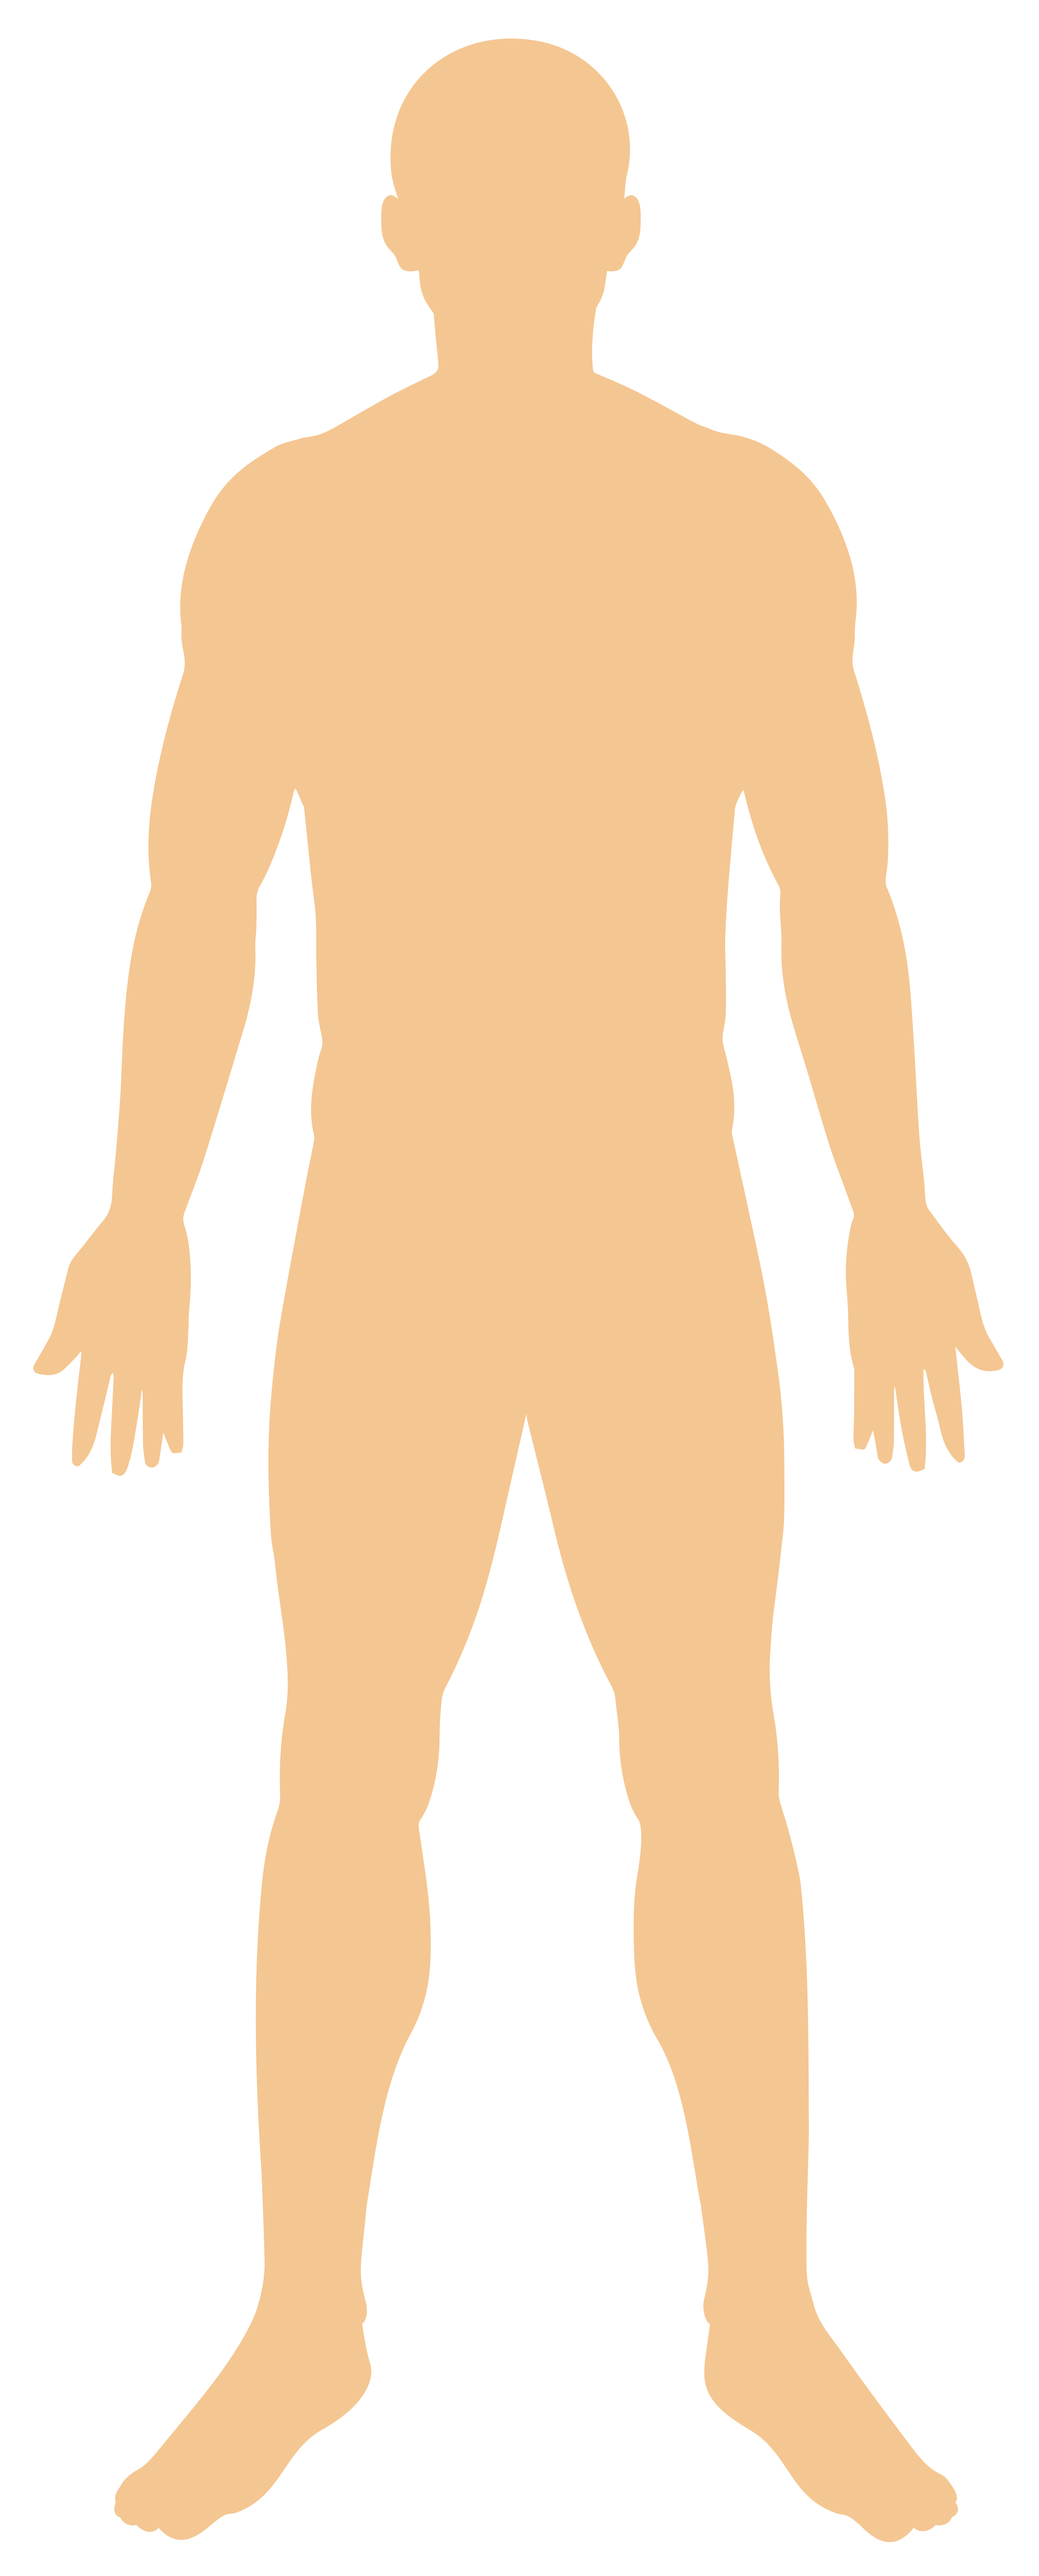
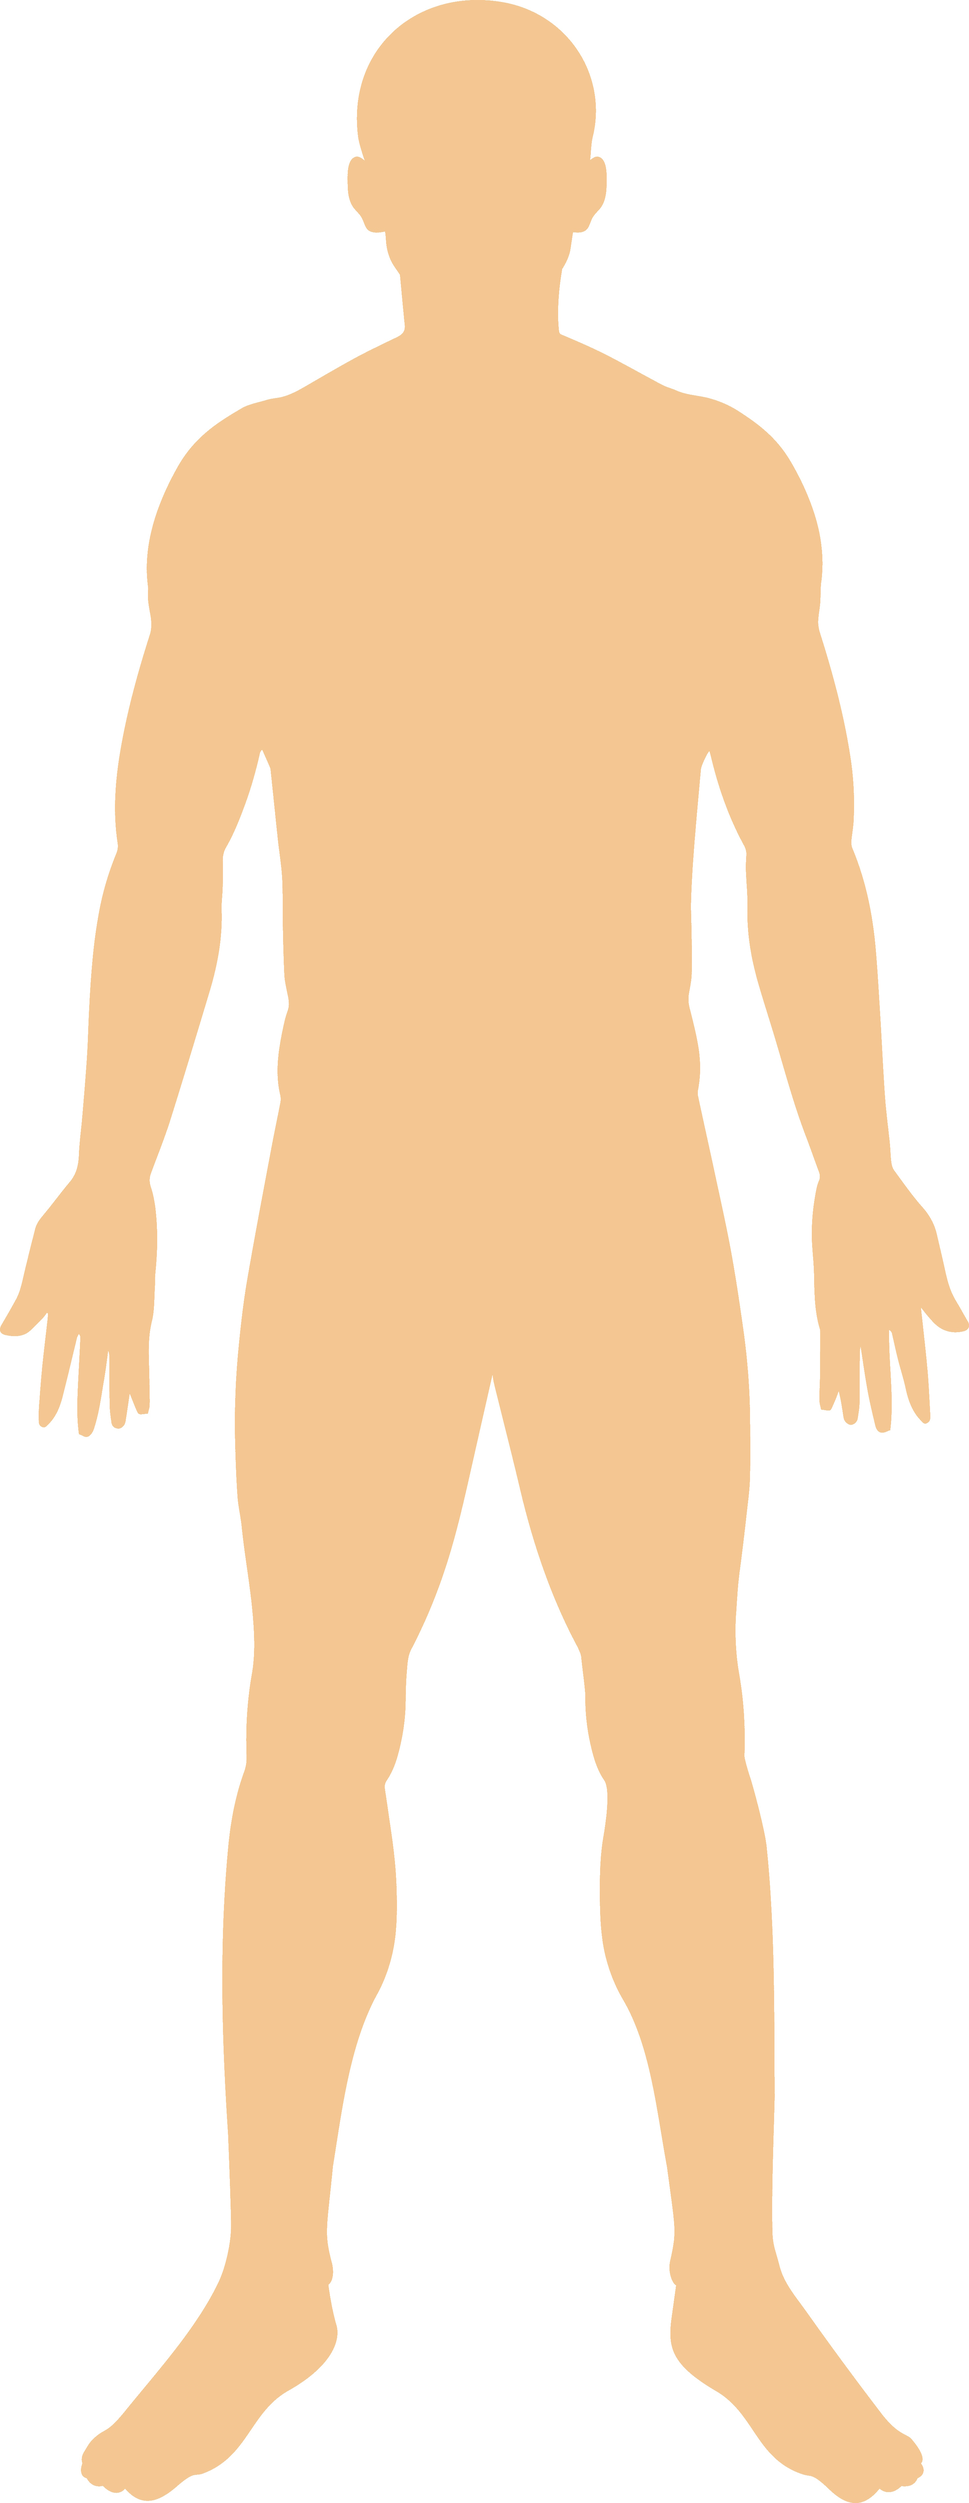
Some bug fixes and improvements

diff --git a/setup_body.py b/setup_body.py
@@ -9,16 +9,18 @@ joints_points = {"Left_arm" : (0.342, 0.412),
                  "Head": [[0.228, 0.849], [0.771, 0.849]],
                  'Legs': [[0.274, 0.478], [0.713, 0.478]]}
 
-def limit_and_scale(value):
-    clamped = max(-1.0, min(1.0, value))
+def redistortion(distortion):
+    '''Перерасчет искажения для подгонки изображения'''
+    clamped = max(-1.0, min(1.0, distortion))
     if clamped > 0.5:
-        return 1
+        return 0.99
     elif clamped < -0.5:
-        return -1
+        return -0.99
     else:
         return clamped * 2
 
 class Body:
+    '''Создание тела'''
     def __init__(self, type, distortion ):
 
         self.name = types[type]
@@ -27,9 +29,9 @@ class Body:
         self.x = self.img.width
         self.y = self.img.height
         if isinstance(distortion,tuple):
-            self.distortion = (limit_and_scale(distortion[0]),limit_and_scale(distortion[1]))    
+            self.distortion = (redistortion(distortion[0]),redistortion(distortion[1]))    
         else:
-            self.distortion = limit_and_scale(distortion)
+            self.distortion = redistortion(distortion)
 
     def change_color(self):
         self.data = np.array(self.img)
@@ -50,17 +52,19 @@ class Body:
         
 
 class Body_part(Body):
+    '''Создание класса части тела с типом и искажением'''
     def __init__(self, type: int, distortion):
         super().__init__(type, distortion)
         
     def resize(self):
+        '''Изменяет размер части тела в соответсвии с искажением'''
         if isinstance(self.distortion, tuple):
-            self.img = self.img.resize( (int(self.x * (1 + self.distortion[0]/2)), 
-                                        int(self.y * (1 + self.distortion[1]/2))))       
+            self.img = self.img.resize( (int(self.x * (1 + self.distortion[0])), 
+                                        int(self.y * (1 + self.distortion[1]))))       
         else:
             self.img.resize( 
-                (int(self.x * (1 + self.distortion/2)),  
-                 int(self.y * (1 + self.distortion/2))))
+                (int(self.x * (1 + self.distortion)),  
+                 int(self.y * (1 + self.distortion))))
 
         self.x, self.y = self.img.size
         self.img.convert('RGBA')  
@@ -69,7 +73,7 @@ class Body_part(Body):
         self.img.close()
 
     def create_joint(self,  distortion):
-        
+        '''Создание подкрепленного сустава'''
         if self.name in joints_points:
             joint = ImageDraw.Draw(self.img)
             joint_pos = joints_points.get(self.name)
@@ -96,7 +100,7 @@ class Body_part(Body):
                         joint.circle((x,y), 200* (1 - abs(distortion)), fill = color, outline = "#000000", width= 5)
 
 def pil_to_pixmap(pil_image):
-
+    '''Первый способ перевода картинки из pil to pixmap'''
     buffer = QBuffer()
     buffer.open(QIODevice.ReadWrite)
     pil_image.save(buffer, "PNG")
@@ -106,7 +110,7 @@ def pil_to_pixmap(pil_image):
     return pixmap
 
 def pil_to_pixmap2(pil_image):
-
+    '''второй способ перевода картинки из pil to pixmap'''
     qimage = QImage(
             pil_image.tobytes(),
             pil_image.width,
@@ -145,7 +149,7 @@ def assemble_body(factors):
     human.paste(torso.img, (right_arm.x, head.y), torso.img)
     human.paste(left_arm.img, (right_arm.x + torso.x, head.y), left_arm.img)
     human.paste(right_arm.img, (0, head.y), right_arm.img)
-    human.paste(legs.img, ((width - legs.x)//2, head.y + torso.y), legs.img)
+    human.paste(legs.img, ((torso.x - legs.x)//2+right_arm.x, head.y + torso.y), legs.img)
 
     #Закрываем картинки 
     for item in [torso, head, left_arm, right_arm, legs]:
